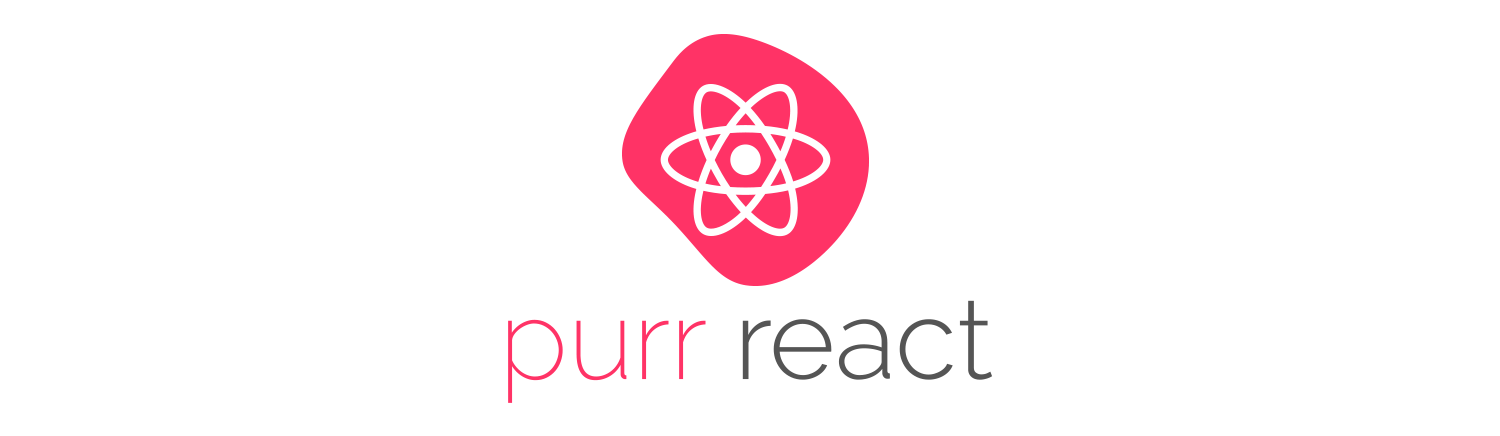
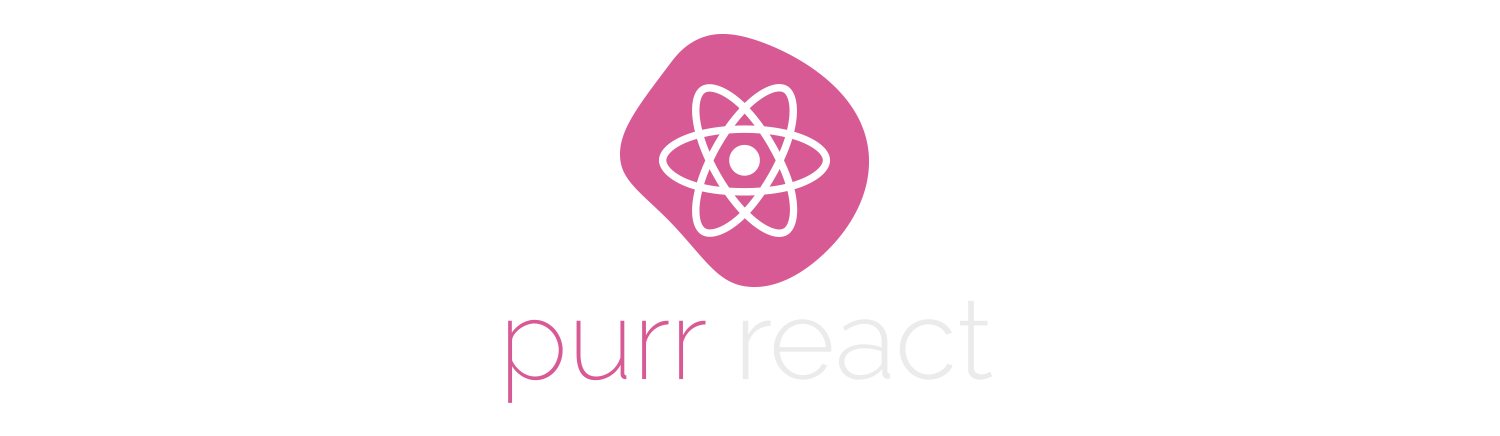
Tweak styles and colors

Changed region(s): [[0.3987, 0.0596, 0.5827, 0.656], [0.4907, 0.6858, 0.6747, 0.8647], [0.3373, 0.7156, 0.46, 0.8945]]

diff --git a/app/styles.js b/app/styles.js
@@ -9,13 +9,14 @@ injectGlobal`
   }
 
   :root {
-    --primaryColor: #242424;
-    --secondaryColor: #f36;
+    --primaryColor: #ebebeb;
+    --secondaryColor: #d85a94;
     --fontStack: -apple-system, BlinkMacSystemFont, 'Segoe UI', 'Helvetica Neue', Arial, sans-serif, 'Apple Color Emoji', 'Segoe UI Emoji', 'Segoe UI Symbol';
     --fontMono: SFMono-Regular, Menlo, Monaco, Consolas, 'Liberation Mono', 'Courier New', monospace;
   }
 
   html {
+    font-size: 112.5%;
     text-size-adjust: 100%;
     cursor: inherit;
   }
@@ -26,14 +27,14 @@ injectGlobal`
   }
 
   body {
-    font-size: 1.0625rem;
-    line-height: 1.52947;
+    font-size: 18px;
+    line-height: 1.45;
     font-weight: 400;
     font-style: normal;
     font-family: var(--fontStack);
     color: var(--primaryColor);
     letter-spacing: -.021em;
-    background-color: white;
+    background-color: #162636;
   }
 
   body,
@@ -47,16 +48,17 @@ injectGlobal`
   }
 
   p {
-    font-size: 1.0625rem;
+    font-size: 18px;
     margin: 1em 0 0;
     margin-top: 13px;
-    line-height: 1.52947;
+    line-height: 1.45;
     font-weight: 400;
     letter-spacing: -.021em;
   }
 
   a {
-    color: black;
+    padding-bottom: 2px;
+    color: #c9abf8;
     text-decoration: none;
     text-decoration-skip: objects;
     border-bottom: 1px solid transparent;
@@ -64,12 +66,12 @@ injectGlobal`
 
     &:link,
     &:visited {
-      color: black;
+      color: #c9abf8;
     }
 
     &:hover {
-      color: var(--primaryColor);
-      border-bottom: 1px solid var(--primaryColor);
+      color: var(--secondaryColor);
+      border-bottom: 1px solid var(--secondaryColor);
       transition: color .15s, border .15s;
     }
 

diff --git a/app/containers/NotFoundPage/index.test.js b/app/containers/NotFoundPage/index.test.js
@@ -1,6 +1,9 @@
 import React from 'react';
 import { shallow } from 'enzyme';
+import renderer from 'react-test-renderer';
+import 'jest-styled-components';
 
+import H1 from 'components/H1';
 import NotFoundPage from './index';
 
 describe('<NotFoundPage />', () => {
@@ -10,9 +13,7 @@ describe('<NotFoundPage />', () => {
   });
 
   it('should have a <h1> title', () => {
-    const wrapper = shallow(<NotFoundPage />);
-    const actual = wrapper.find('h1').text();
-
-    expect(actual).toEqual('404 page not found');
+    const wrapper = renderer.create(<H1 />).toJSON();
+    expect(wrapper).toMatchSnapshot();
   });
 });

diff --git a/app/components/H1/index.test.js b/app/components/H1/index.test.js
@@ -1,0 +1,22 @@
+import React from 'react';
+import { shallow } from 'enzyme';
+
+import H1 from './index';
+
+describe('<H1 />', () => {
+  it('should render a <h1> tag', () => {
+    const wrapper = shallow(<H1 />);
+    expect(wrapper.type()).toEqual('h1');
+  });
+
+  it('should adopt a valid attribute', () => {
+    const id = 'test';
+    const wrapper = shallow(<H1 id={id} />);
+    expect(wrapper.prop('id')).toEqual(id);
+  });
+
+  it('should not adopt an invalid attribute', () => {
+    const wrapper = shallow(<H1 attribute="test" />);
+    expect(wrapper.prop('attribute')).toBeUndefined();
+  });
+});

diff --git a/app/components/A/index.js b/app/components/A/index.js
@@ -1,7 +1,8 @@
 import styled from 'styled-components';
 
 const A = styled.a`
-  color: black;
+  padding-bottom: 2px;
+  color: #c9abf8;
   text-decoration: none;
   text-decoration-skip: objects;
   border-bottom: 1px solid transparent;
@@ -9,12 +10,12 @@ const A = styled.a`
 
   &:link,
   &:visited {
-    color: black;
+    color: #c9abf8;
   }
 
   &:hover {
-    color: var(--primaryColor);
-    border-bottom: 1px solid var(--primaryColor);
+    color: var(--secondaryColor);
+    border-bottom: 1px solid var(--secondaryColor);
     transition: color .15s, border .15s;
   }
 

diff --git a/app/containers/HomePage/index.js b/app/containers/HomePage/index.js
@@ -32,7 +32,7 @@ class HomePage extends React.Component {
         or anything too overkill for a small project. You can extend the config as
         much as you want.</p>
 
-        <p><Link to='/about'>Link to another page</Link> <Link to='/trololo'>| Test bad link</Link></p>
+        <p><Link to='/about'>Link to another page</Link> | <Link to='/trololo'>Test bad link</Link></p>
       </main>
     );
   }

diff --git a/app/containers/HomePage/Span.test.js b/app/containers/HomePage/Span.test.js
@@ -16,7 +16,7 @@ describe('<Span />', () => {
   it('should render without throwing an error', () => {
     const wrapper = renderer.create(<Span />).toJSON();
     expect(wrapper).toMatchSnapshot();
-    expect(wrapper).toHaveStyleRule('color', '#555');
+    expect(wrapper).toHaveStyleRule('color', '#ebebeb');
   });
 
   it('applies style according to passed props', () => {

diff --git a/app/containers/NotFoundPage/index.js b/app/containers/NotFoundPage/index.js
@@ -1,9 +1,11 @@
 import React from 'react';
 import { Link } from 'react-router-dom';
 
+import H1 from 'components/H1';
+
 const HomePage = () => (
   <section className="page home">
-    <h1>404 page not found</h1>
+    <H1>404 page not found</H1>
     <p>
       <Link to='/'>Back to home</Link>
     </p>

diff --git a/app/components/Code/index.js b/app/components/Code/index.js
@@ -5,8 +5,8 @@ const Code = styled.code`
   margin: 0;
   font-weight: 400;
   font-size: 88.5%;
-  color: black;
-  background-color: rgba(27, 31, 35, .05);
+  color: white;
+  background-color: rgba(144, 144, 144, .09);
   border-radius: 3px;
   word-break: break-word;
 `;

diff --git a/app/containers/HomePage/Span.js b/app/containers/HomePage/Span.js
@@ -1,7 +1,7 @@
 import styled from 'styled-components';
 
 const Span = styled.span`
-  color: ${props => props.secondary ? 'var(--secondaryColor)' : '#555'};
+  color: ${props => props.secondary ? 'var(--secondaryColor)' : '#ebebeb'};
 `;
 
 export default Span;

diff --git a/app/components/List/ListItem.js b/app/components/List/ListItem.js
@@ -1,8 +1,8 @@
 import styled from 'styled-components';
 
 const ListItem = styled.li`
-  font-size: 1.0625rem;
-  line-height: 1.52947;
+  font-size: 18px;
+  line-height: 1.45;
   font-weight: 400;
   letter-spacing: -.021em;
 `;

diff --git a/app/components/H1/index.js b/app/components/H1/index.js
@@ -1,0 +1,11 @@
+import styled from 'styled-components';
+
+const H1 = styled.h1`
+  margin-top: 1.2em;
+  font-weight: 600;
+  font-size: 40px;
+  line-height: 1.09375;
+  letter-spacing: .011em;
+`;
+
+export default H1;
